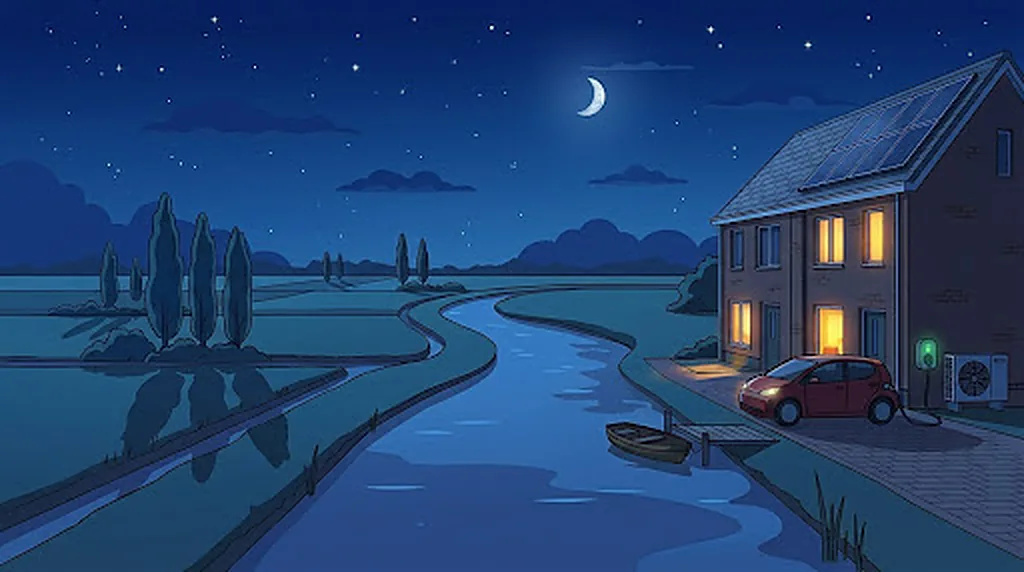
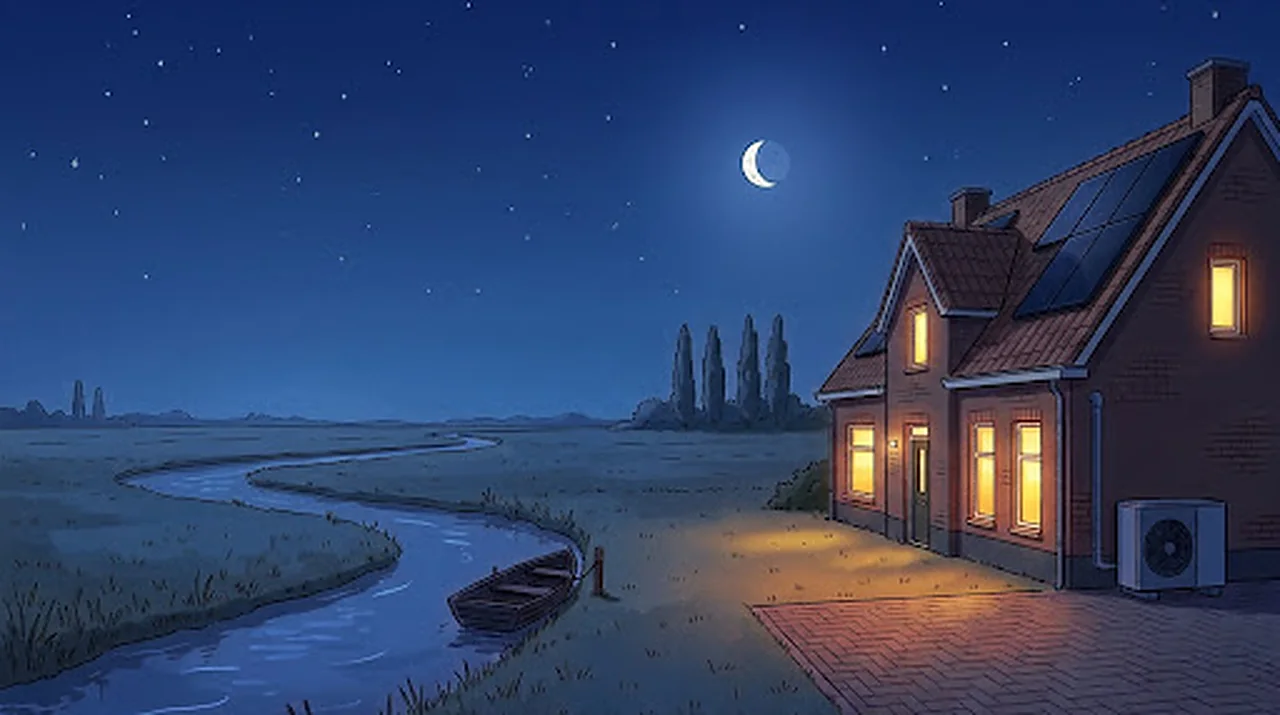
Zonnestuur 0.112.1

diff --git a/box/code/cp311/zonnestuur/web/cards/zonnestuur-cards.js b/box/code/cp311/zonnestuur/web/cards/zonnestuur-cards.js
@@ -12,7 +12,7 @@
  *
  * Optioneel bij elke kaart: entity: sensor.zonnestuur
  */
-const ZS_VERSION = "1.13.0";
+const ZS_VERSION = "1.13.1";
 // Waar dit bestand vandaan kwam (bij het laden uit de foutmelding-stapel gelezen: werkt ook als script-module)
 const ZS_SRC = (() => { try { throw new Error("zs"); } catch (e) { const m = String(e.stack || "").match(/(https?:\/\/[^\s)"']*?zonnestuur-cards\.js)/); return m ? m[1] : ""; } })();
 
@@ -843,7 +843,7 @@ class ZonnestuurHubCard extends HTMLElement {
     const donker = cf.thema === "donker" || (cf.thema !== "licht" && fase !== "dag");
     const acc = ZS_ACCENT[cf.accent] && on ? ZS_ACCENT[cf.accent] : null;
     const stijl = [acc ? `--held-acc:${acc[0]}` : "", `--zs-zoom:${({ groot: 1.15, extra: 1.3 })[cf.tekst] || 1}`].filter(Boolean).join(";");
-    const sfeerLaag = (k) => k ? `<div class="sfeerbeeld" style="background-image:url('${zsBase()}img/hub/${beeld}.webp')" aria-hidden="true"></div>` : "";
+    const sfeerLaag = (k) => k ? `<div class="sfeerbeeld" style="background-image:url('${zsBase()}img/hub/${beeld}.webp?v=${ZS_VERSION}')" aria-hidden="true"></div>` : "";
     // Sfeerbeeld bovenin (dag, zonsondergang, nacht), met de prijzen op een rustige band eronder; uit met sfeer: false
     const sfeer = cf.sfeer !== false && cf.huis !== false && (cf.thema !== "licht" || fase === "dag") && (cf.thema !== "donker" || fase !== "dag");
     const beeld = fase === "dag" ? "dag" : fase === "schemer" ? "schemer" : "nacht";

diff --git a/box/code/cp312/zonnestuur/web/cards/zonnestuur-cards.js b/box/code/cp312/zonnestuur/web/cards/zonnestuur-cards.js
@@ -12,7 +12,7 @@
  *
  * Optioneel bij elke kaart: entity: sensor.zonnestuur
  */
-const ZS_VERSION = "1.13.0";
+const ZS_VERSION = "1.13.1";
 // Waar dit bestand vandaan kwam (bij het laden uit de foutmelding-stapel gelezen: werkt ook als script-module)
 const ZS_SRC = (() => { try { throw new Error("zs"); } catch (e) { const m = String(e.stack || "").match(/(https?:\/\/[^\s)"']*?zonnestuur-cards\.js)/); return m ? m[1] : ""; } })();
 
@@ -843,7 +843,7 @@ class ZonnestuurHubCard extends HTMLElement {
     const donker = cf.thema === "donker" || (cf.thema !== "licht" && fase !== "dag");
     const acc = ZS_ACCENT[cf.accent] && on ? ZS_ACCENT[cf.accent] : null;
     const stijl = [acc ? `--held-acc:${acc[0]}` : "", `--zs-zoom:${({ groot: 1.15, extra: 1.3 })[cf.tekst] || 1}`].filter(Boolean).join(";");
-    const sfeerLaag = (k) => k ? `<div class="sfeerbeeld" style="background-image:url('${zsBase()}img/hub/${beeld}.webp')" aria-hidden="true"></div>` : "";
+    const sfeerLaag = (k) => k ? `<div class="sfeerbeeld" style="background-image:url('${zsBase()}img/hub/${beeld}.webp?v=${ZS_VERSION}')" aria-hidden="true"></div>` : "";
     // Sfeerbeeld bovenin (dag, zonsondergang, nacht), met de prijzen op een rustige band eronder; uit met sfeer: false
     const sfeer = cf.sfeer !== false && cf.huis !== false && (cf.thema !== "licht" || fase === "dag") && (cf.thema !== "donker" || fase !== "dag");
     const beeld = fase === "dag" ? "dag" : fase === "schemer" ? "schemer" : "nacht";

diff --git a/box/code/cp313/zonnestuur/web/cards/zonnestuur-cards.js b/box/code/cp313/zonnestuur/web/cards/zonnestuur-cards.js
@@ -12,7 +12,7 @@
  *
  * Optioneel bij elke kaart: entity: sensor.zonnestuur
  */
-const ZS_VERSION = "1.13.0";
+const ZS_VERSION = "1.13.1";
 // Waar dit bestand vandaan kwam (bij het laden uit de foutmelding-stapel gelezen: werkt ook als script-module)
 const ZS_SRC = (() => { try { throw new Error("zs"); } catch (e) { const m = String(e.stack || "").match(/(https?:\/\/[^\s)"']*?zonnestuur-cards\.js)/); return m ? m[1] : ""; } })();
 
@@ -843,7 +843,7 @@ class ZonnestuurHubCard extends HTMLElement {
     const donker = cf.thema === "donker" || (cf.thema !== "licht" && fase !== "dag");
     const acc = ZS_ACCENT[cf.accent] && on ? ZS_ACCENT[cf.accent] : null;
     const stijl = [acc ? `--held-acc:${acc[0]}` : "", `--zs-zoom:${({ groot: 1.15, extra: 1.3 })[cf.tekst] || 1}`].filter(Boolean).join(";");
-    const sfeerLaag = (k) => k ? `<div class="sfeerbeeld" style="background-image:url('${zsBase()}img/hub/${beeld}.webp')" aria-hidden="true"></div>` : "";
+    const sfeerLaag = (k) => k ? `<div class="sfeerbeeld" style="background-image:url('${zsBase()}img/hub/${beeld}.webp?v=${ZS_VERSION}')" aria-hidden="true"></div>` : "";
     // Sfeerbeeld bovenin (dag, zonsondergang, nacht), met de prijzen op een rustige band eronder; uit met sfeer: false
     const sfeer = cf.sfeer !== false && cf.huis !== false && (cf.thema !== "licht" || fase === "dag") && (cf.thema !== "donker" || fase !== "dag");
     const beeld = fase === "dag" ? "dag" : fase === "schemer" ? "schemer" : "nacht";

diff --git a/zonnestuur/app/zonnestuur/web/cards/zonnestuur-cards.js b/zonnestuur/app/zonnestuur/web/cards/zonnestuur-cards.js
@@ -12,7 +12,7 @@
  *
  * Optioneel bij elke kaart: entity: sensor.zonnestuur
  */
-const ZS_VERSION = "1.13.0";
+const ZS_VERSION = "1.13.1";
 // Waar dit bestand vandaan kwam (bij het laden uit de foutmelding-stapel gelezen: werkt ook als script-module)
 const ZS_SRC = (() => { try { throw new Error("zs"); } catch (e) { const m = String(e.stack || "").match(/(https?:\/\/[^\s)"']*?zonnestuur-cards\.js)/); return m ? m[1] : ""; } })();
 
@@ -843,7 +843,7 @@ class ZonnestuurHubCard extends HTMLElement {
     const donker = cf.thema === "donker" || (cf.thema !== "licht" && fase !== "dag");
     const acc = ZS_ACCENT[cf.accent] && on ? ZS_ACCENT[cf.accent] : null;
     const stijl = [acc ? `--held-acc:${acc[0]}` : "", `--zs-zoom:${({ groot: 1.15, extra: 1.3 })[cf.tekst] || 1}`].filter(Boolean).join(";");
-    const sfeerLaag = (k) => k ? `<div class="sfeerbeeld" style="background-image:url('${zsBase()}img/hub/${beeld}.webp')" aria-hidden="true"></div>` : "";
+    const sfeerLaag = (k) => k ? `<div class="sfeerbeeld" style="background-image:url('${zsBase()}img/hub/${beeld}.webp?v=${ZS_VERSION}')" aria-hidden="true"></div>` : "";
     // Sfeerbeeld bovenin (dag, zonsondergang, nacht), met de prijzen op een rustige band eronder; uit met sfeer: false
     const sfeer = cf.sfeer !== false && cf.huis !== false && (cf.thema !== "licht" || fase === "dag") && (cf.thema !== "donker" || fase !== "dag");
     const beeld = fase === "dag" ? "dag" : fase === "schemer" ? "schemer" : "nacht";

diff --git a/zonnestuur/CHANGELOG.md b/zonnestuur/CHANGELOG.md
@@ -1,5 +1,8 @@
 # Wijzigingen
 
+## 0.112.1
+- Nest Hub: nieuwe sfeerbeelden voor dag, schemer en nacht, zonder auto en laadpaal. Het dagbeeld is ook scherper.
+
 ## 0.112.0
 - Tik je op een apparaat, dan groeit die regel vloeiend uit tot de pagina van dat apparaat (op toestellen die dat kunnen).
 - Keuzelijsten op de computer hebben nu de stijl van de app in plaats van die van de browser.
